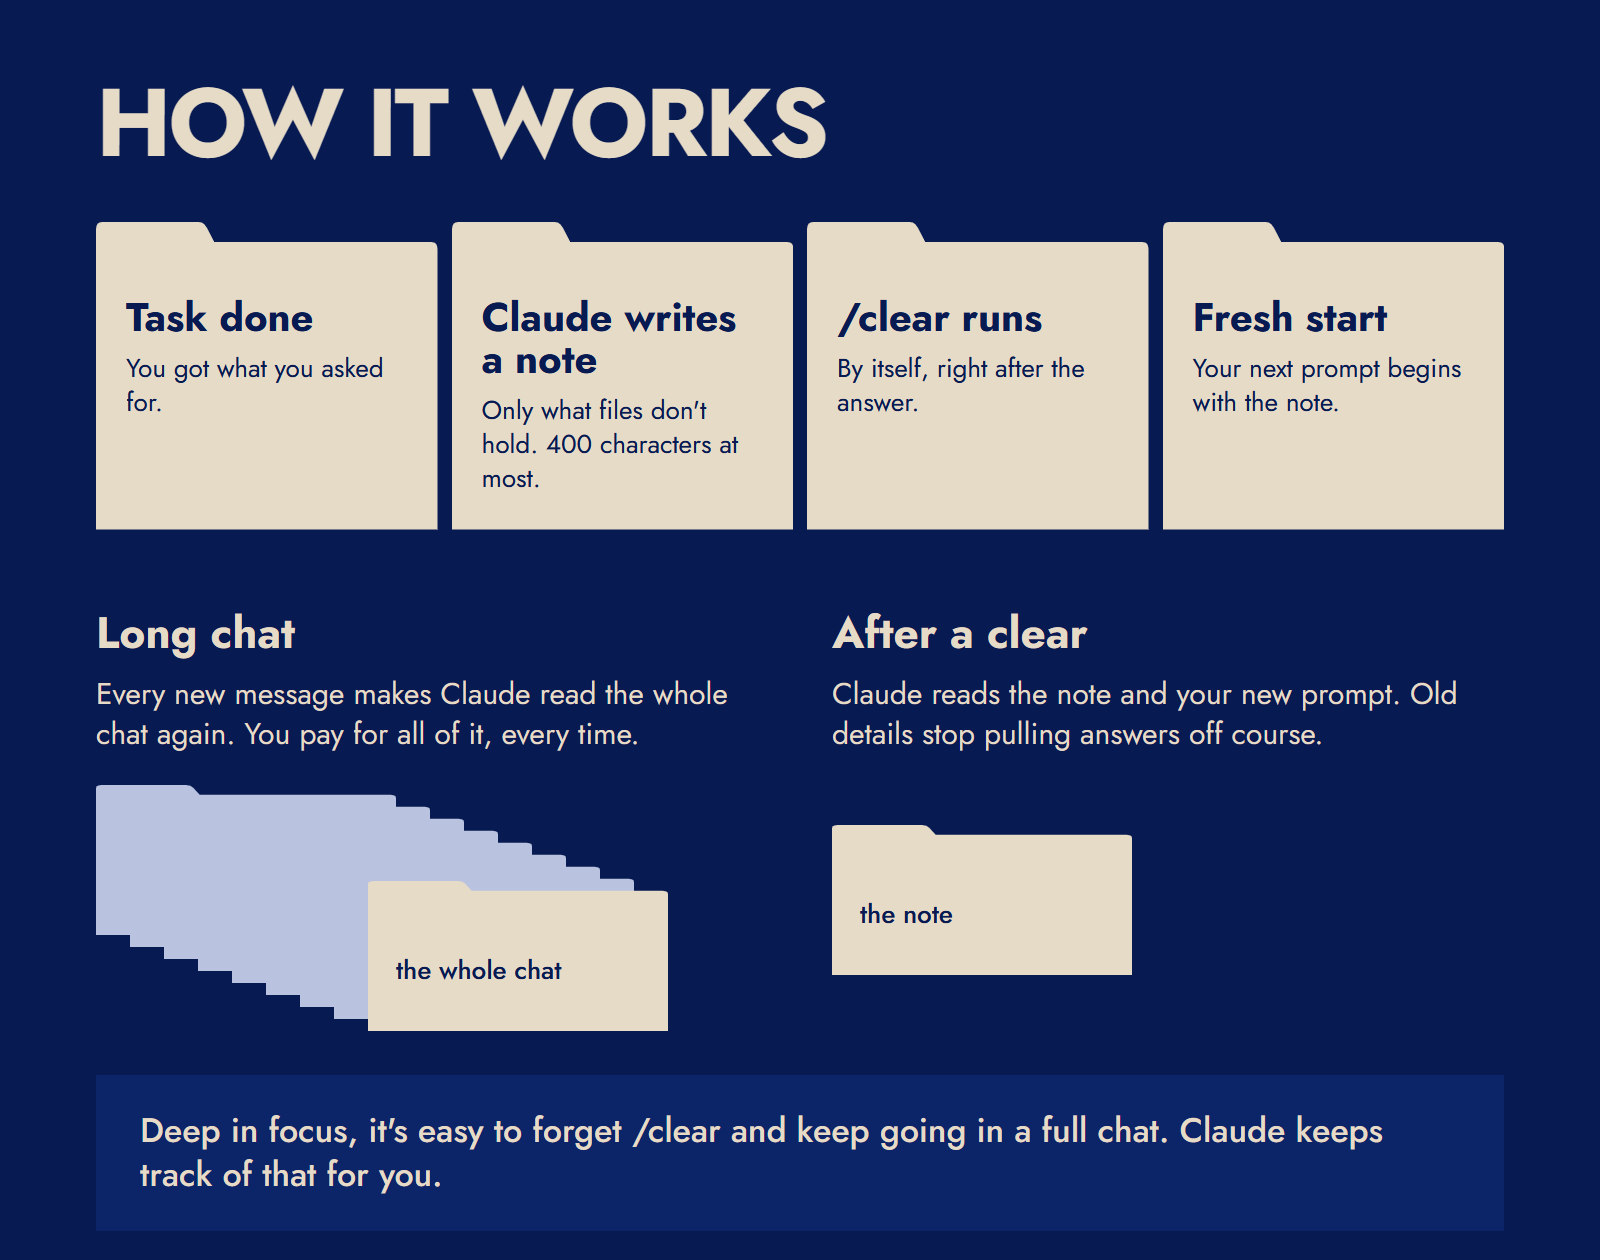
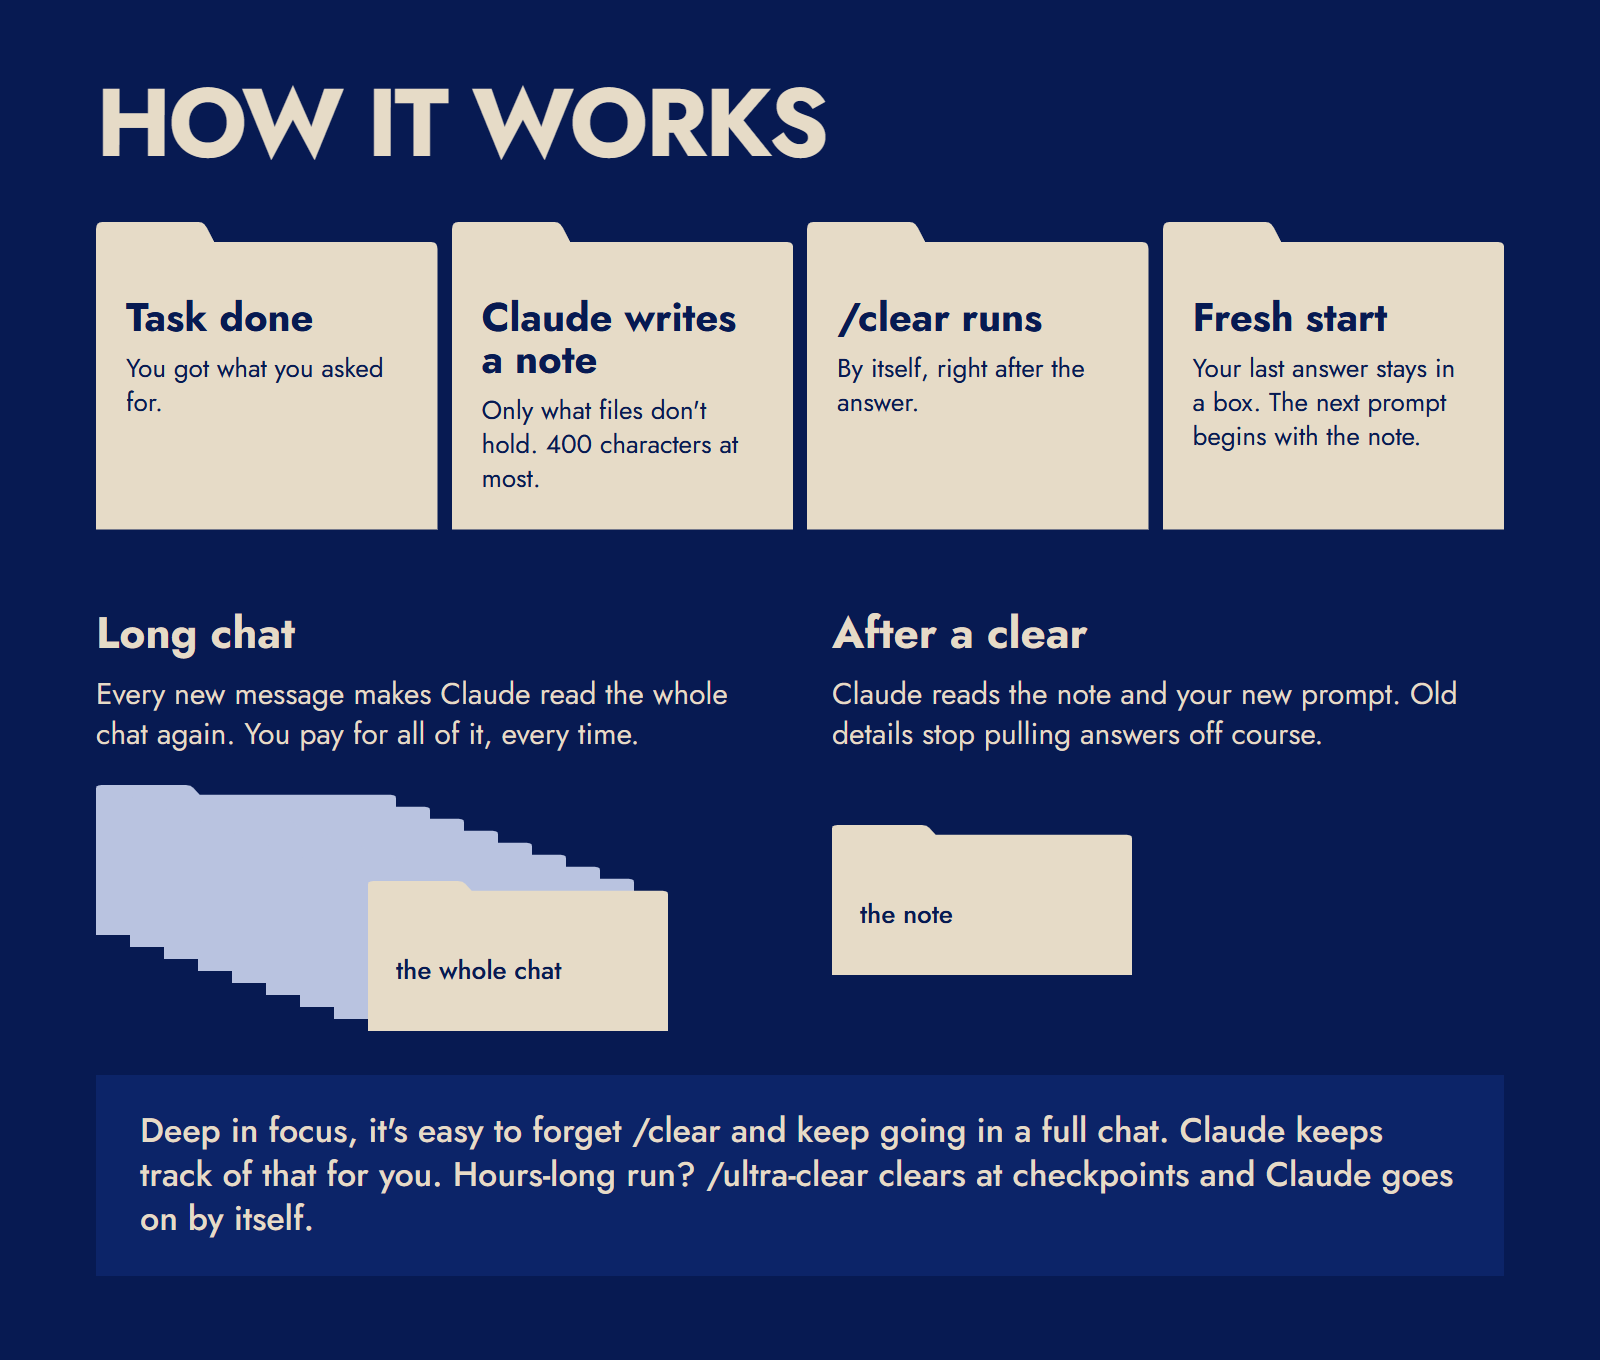
Infographic: last answer box and /ultra-clear

Changed region(s): [[0.0625, 0.1548, 0.9375, 0.9595], [0.0625, 0.0619, 0.5312, 0.1238], [0.5, 0.7119, 0.7188, 0.7738]]

diff --git a/assets/src/infographic.html b/assets/src/infographic.html
@@ -40,8 +40,8 @@
   #banner .note b { display: block; font-weight: 700; font-size: 34px; margin-bottom: 14px; }
   #banner .count { display: block; margin-top: 22px; font-size: 24px; opacity: 0.8; }
 
-  /* Flow 1600 x 1180 */
-  #flow { width: 1600px; height: 1260px; padding: 80px 96px; }
+  /* Flow 1600 x 1360 */
+  #flow { width: 1600px; height: 1360px; padding: 80px 96px; }
   #flow h2 { font-size: 96px; }
   .bar { display: flex; gap: 14px; margin-top: 56px; }
   .stage { position: relative; flex: 1; padding: 74px 30px 34px; color: var(--on-ink); min-height: 250px; }
@@ -90,7 +90,7 @@
     <div class="stage"><svg class="tab" viewBox="0 0 1000 800" preserveAspectRatio="none" aria-hidden="true"><path d="M0 18 Q0 0 18 0 H300 Q316 0 324 14 L346 52 H982 Q1000 52 1000 70 V800 H0 Z"/></svg>
       <strong>/clear runs</strong><span>By itself, right after the answer.</span></div>
     <div class="stage"><svg class="tab" viewBox="0 0 1000 800" preserveAspectRatio="none" aria-hidden="true"><path d="M0 18 Q0 0 18 0 H300 Q316 0 324 14 L346 52 H982 Q1000 52 1000 70 V800 H0 Z"/></svg>
-      <strong>Fresh start</strong><span>Your next prompt begins with the note.</span></div>
+      <strong>Fresh start</strong><span>Your last answer stays in a box. The next prompt begins with the note.</span></div>
   </div>
 
   <div class="why">
@@ -109,7 +109,7 @@
     </div>
   </div>
 
-  <p class="focus">Deep in focus, it's easy to forget /clear and keep going in a full chat. Claude keeps track of that for you.</p>
+  <p class="focus">Deep in focus, it's easy to forget /clear and keep going in a full chat. Claude keeps track of that for you. Hours-long run? /ultra-clear clears at checkpoints and Claude goes on by itself.</p>
 </section>
 
 <section class="view" id="icon" aria-label="All Clear icon">

diff --git a/README.md b/README.md
@@ -33,7 +33,7 @@ Using Codex? See [Codex](#codex) below.
 
 <picture>
   <source media="(prefers-color-scheme: dark)" srcset="assets/how-it-works-dark.png">
-  <img alt="How it works: the task is done, Claude writes a note of 400 characters at most, /clear runs by itself, and your next prompt begins with the note. A long chat makes Claude re-read everything on each message; after a clear it reads only the note and your new prompt." src="assets/how-it-works-light.png">
+  <img alt="How it works: the task is done, Claude writes a note of 400 characters at most, /clear runs by itself, your last answer stays on screen in a box, and your next prompt begins with the note. A long chat makes Claude re-read everything on each message; after a clear it reads only the note and your new prompt." src="assets/how-it-works-light.png">
 </picture>
 
 1. You finish a task with Claude.
